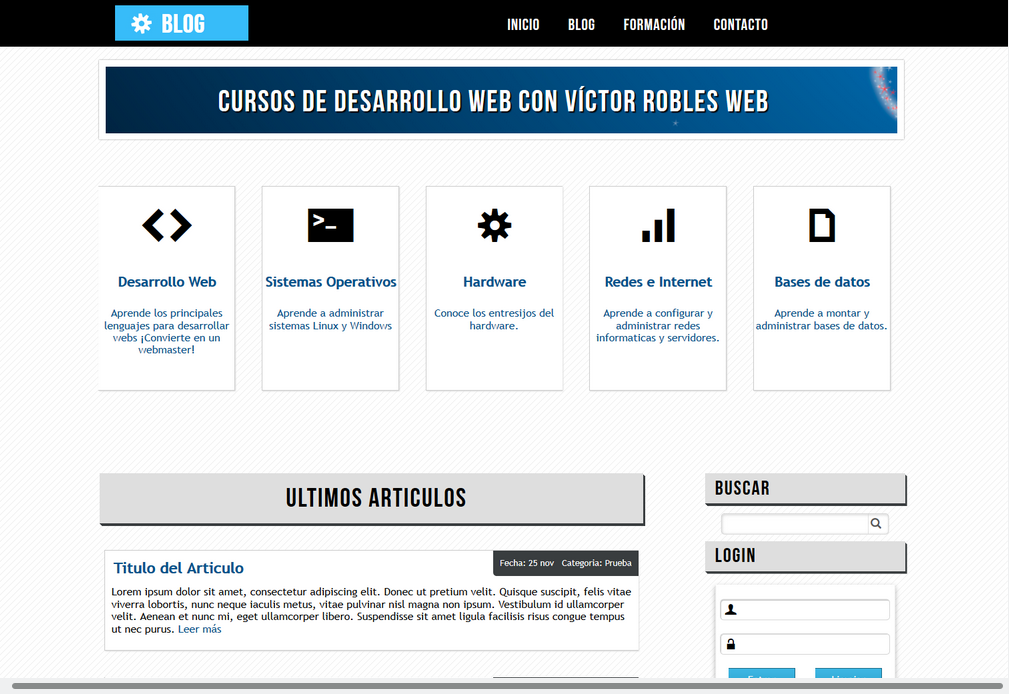
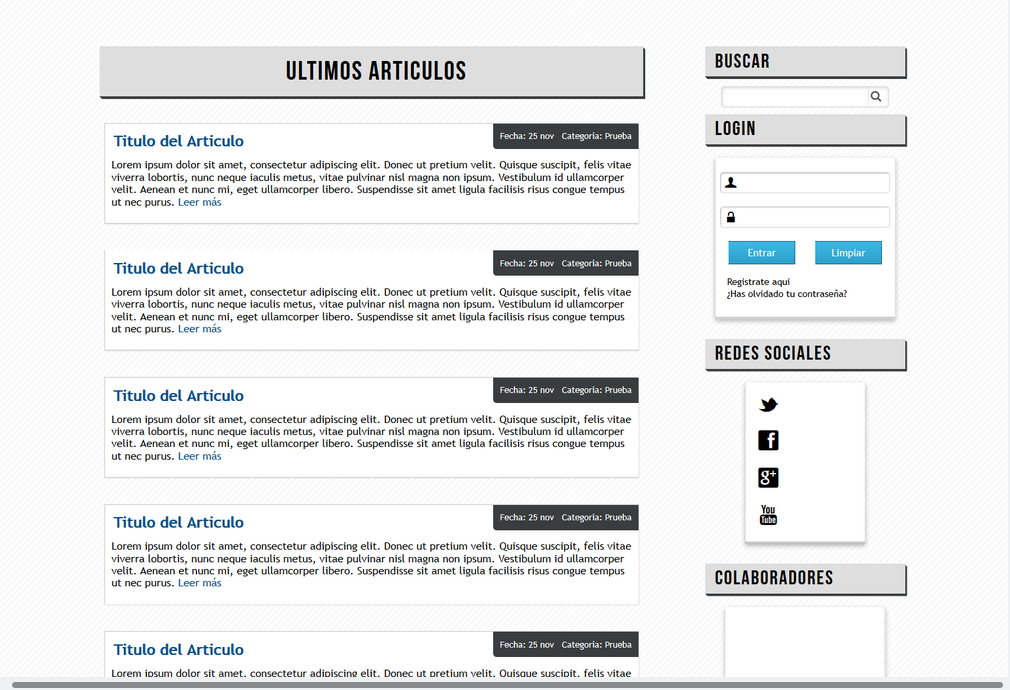
Sidebar Html y CSS finished

diff --git a/css/styles.css b/css/styles.css
@@ -38,6 +38,15 @@ a {
     text-decoration: none;
 }
 
+*:focus {
+    outline: none;
+}
+
+textarea:focus,
+input:focus {
+    outline: none;
+}
+
 .wrap {
     width: 53.125em;
     margin: 0em auto;
@@ -234,3 +243,189 @@ a {
     font-size: 11px;
     margin-top: 20px;
 } */
+
+
+/* ========================================== SIDEBAR =======================================================*/
+
+#sidebar {
+    float: right;
+    width: 200px;
+    min-height: 1200px;
+    font-family: "TrebuchetMS";
+    margin: 65px 16px;
+}
+
+#sidebar h3 {
+    display: block;
+    width: auto;
+    height: 30px;
+    line-height: 30px;
+    background: url('../img/pxgray.png'), white;
+    box-shadow: 0px 1px 0px #393d3f, 1px 2px 0px #393d3f, 2px 3px 0px #393d3f, 3px 4px 0px #393d3f;
+    font-family: "BebasNeue";
+    font-size: 20px;
+    font-weight: normal;
+    letter-spacing: 2px;
+    padding-left: 15px;
+    margin-top: 30px;
+    margin-bottom: 15px;
+}
+
+#sidebar h3:first-child {
+    margin-top: 0px;
+}
+
+
+/* Metemos el input "text" y el button con la lupa dentro de la caja #search que tendrá apariencia de input
+text */
+
+
+/*   Buscar */
+
+#search {
+    width: 84%;
+    height: 21px;
+    margin: 10px auto;
+    background-color: white;
+    border: 1px solid #ccc;
+    border-radius: 5px;
+    box-shadow: 1px 1px 4px #ccc inset;
+}
+
+#sidebar input[type="text"] {
+    width: 75%;
+    height: 21px;
+    border: none;
+    padding-left: 5px;
+    border-radius: 5px;
+    background-color: transparent;
+    color: #ccc;
+    transition: all 300ms;
+}
+
+#sidebar input[type="text"]:focus {
+    color: #555;
+}
+
+#sidebar input[type="button"] {
+    height: 21px;
+    cursor: pointer;
+    font-size: 14px;
+    background-color: transparent;
+    border: none;
+    border-left: 1px solid #ccc;
+    color: #555;
+    padding-left: 7px;
+}
+
+
+/* Fin buscar */
+
+
+/* cajas */
+
+.aside-box {
+    width: 90%;
+    height: 200px;
+    margin: 0px auto;
+    margin-top: 20px;
+    padding-top: 2px;
+    background: white;
+    box-shadow: 0px 0px 1px rgba(0, 0, 0, 0.3), 0px 3px 7px rgba(0, 0, 0, 0.3), 0px 1px white inset, 0px -3px 2px rgba(0, 0, 0, 0.3) inset;
+}
+
+
+/* input caja Login*/
+
+#login input[type="email"],
+#login input[type="password"] {
+    display: block;
+    width: 81%;
+    height: 21px;
+    margin: 0px auto;
+    margin-top: 20px;
+    padding-left: 21px;
+    border: 1px solid #ccc;
+    box-shadow: 1px 1px 1px #ccc inset;
+    border-radius: 5px;
+    color: gray;
+}
+
+#login input[type="email"]:focus,
+#login input[type="password"]:focus {
+    color: #555;
+    box-shadow: 1px 1px 1px grey inset;
+}
+
+
+/* Esta vez posicionamos los simbolos del candado y del usuario dentro del input en vez de crear un div que
+tenga la misma apariencia que el input como hicimos antes. Jugamos con el padding, el ancho de los input email
+y password y la posición absoluta de los simbolos */
+
+#login #user,
+#login #lock {
+    display: block;
+    text-align: center;
+    position: absolute;
+    margin-left: 10px;
+    margin-top: 3px;
+    height: 21px;
+    font-size: 14px;
+}
+
+#login #lock {
+    margin-left: 12px;
+    margin-top: 24px;
+    font-size: 17px;
+}
+
+
+/* Botones Enviar y Reset del Login */
+
+#login input[type="submit"],
+#login input[type="reset"] {
+    text-align: center;
+    width: 70px;
+    height: 25px;
+    margin-top: 20px;
+    margin-left: 12px;
+    margin-bottom: 20px;
+    color: white;
+    background: linear-gradient(to bottom, #3eb8e5 0%, #2ca0ca 100%);
+    border: 1px solid #156785;
+    border-radius: 0px;
+    cursor: pointer;
+    font-size: 12px;
+    font-family: "TrebuchetMS";
+    font-weight: lighter;
+    transition: all 300ms;
+}
+
+#login input[type="submit"]:hover,
+#login input[type="reset"]:hover {
+    box-shadow: 0px 0px 3px gray;
+}
+
+#login a {
+    display: block;
+    font-size: 12px;
+    margin-left: 12px;
+    color: #555;
+}
+
+#login a:hover {
+    text-decoration: underline;
+    color: #2f78bc;
+}
+
+
+/* Redes sociales*/
+
+#social a {
+    display: block;
+    color: #333;
+    text-decoration: none;
+    font-size: 30px;
+    margin-top: 9px;
+    margin-left: 10px;
+}

diff --git a/index.html b/index.html
@@ -32,13 +32,16 @@
         </div>
     </header>
     <!-- ==================================== Header End ============================================-->
-    <!-- ==================================== Info Section Start ==========================================-->
-    <section class="wrap">
-        <section id="info">
 
+    <section class="wrap">
+        <!-- ==================================== Info Section Start ==========================================-->
+        <section id="info">
+            <!-- ------------- Banner Start ----------- -->
             <div id="banner">
                 <h1>APRENDE TODO SOBRE EL DESARROLLO WEB</h1>
             </div>
+            <!-- ------------- Banner End ----------- -->
+            <!-- ------------- Cards Start ----------- -->
             <div id="cards">
                 <div class="card">
                     <p class="icon">H</p>
@@ -80,9 +83,66 @@
                     </p>
                 </div>
             </div>
+            <!-- ------------- Cards End ----------- -->
         </section>
+        <!-- ==================================== Info Section End ============================================-->
+
+        <!-- ==================================== Sidebar Start ============================================-->
+        <aside id="sidebar">
+
+            <h3>BUSCAR</h3>
+            <div id="search">
+                <form action="" method="post">
+                    <input type="text">
+                    <!-- L = search icon-->
+                    <input type="button" value="L" class="icon">
+                </form>
+            </div>
+
+            <h3>LOGIN</h3>
+            <div id="login" class="aside-box">
+                <form>
+                    <!-- U = user icon-->
+                    <label id="user" class="icon">U</label>
+                    <input type="email">
+
+                    <!-- w = Lock icon-->
+                    <label id="lock" class="icon">w</label>
+                    <input type="password">
+
+                    <input type="submit" value="Entrar">
+                    <input type="reset" value="Limpiar">
+                </form>
+                <a href="#">Registrate aquí</a>
+                <a href="#">¿Has olvidado la contraseña?</a>
+            </div>
+
+            <h3>REDES SOCIALES</h3>
+            <div id="social" class="aside-box">
+                <div class="twitter">
+                    <a href="#" class="icon">t</a>
+                </div>
+                <div class="facebook">
+                    <a href="#" class="icon">f</a>
+                </div>
+                <div class="youtube">
+                    <a href="#" class="icon">y</a>
+                </div>
+                <div class="googlePlus">
+                    <a href="#" class="icon">g</a>
+                </div>
+            </div>
+
+            <h3>COLABORADORES</h3>
+            <div id="sponsors" class="aside-box"></div>
+
+        </aside>
+        <!-- ==================================== Info Section End ============================================-->
     </section>
-    <!-- ==================================== Info Section End ============================================-->
+
+
+
+
 
 </body>
 
